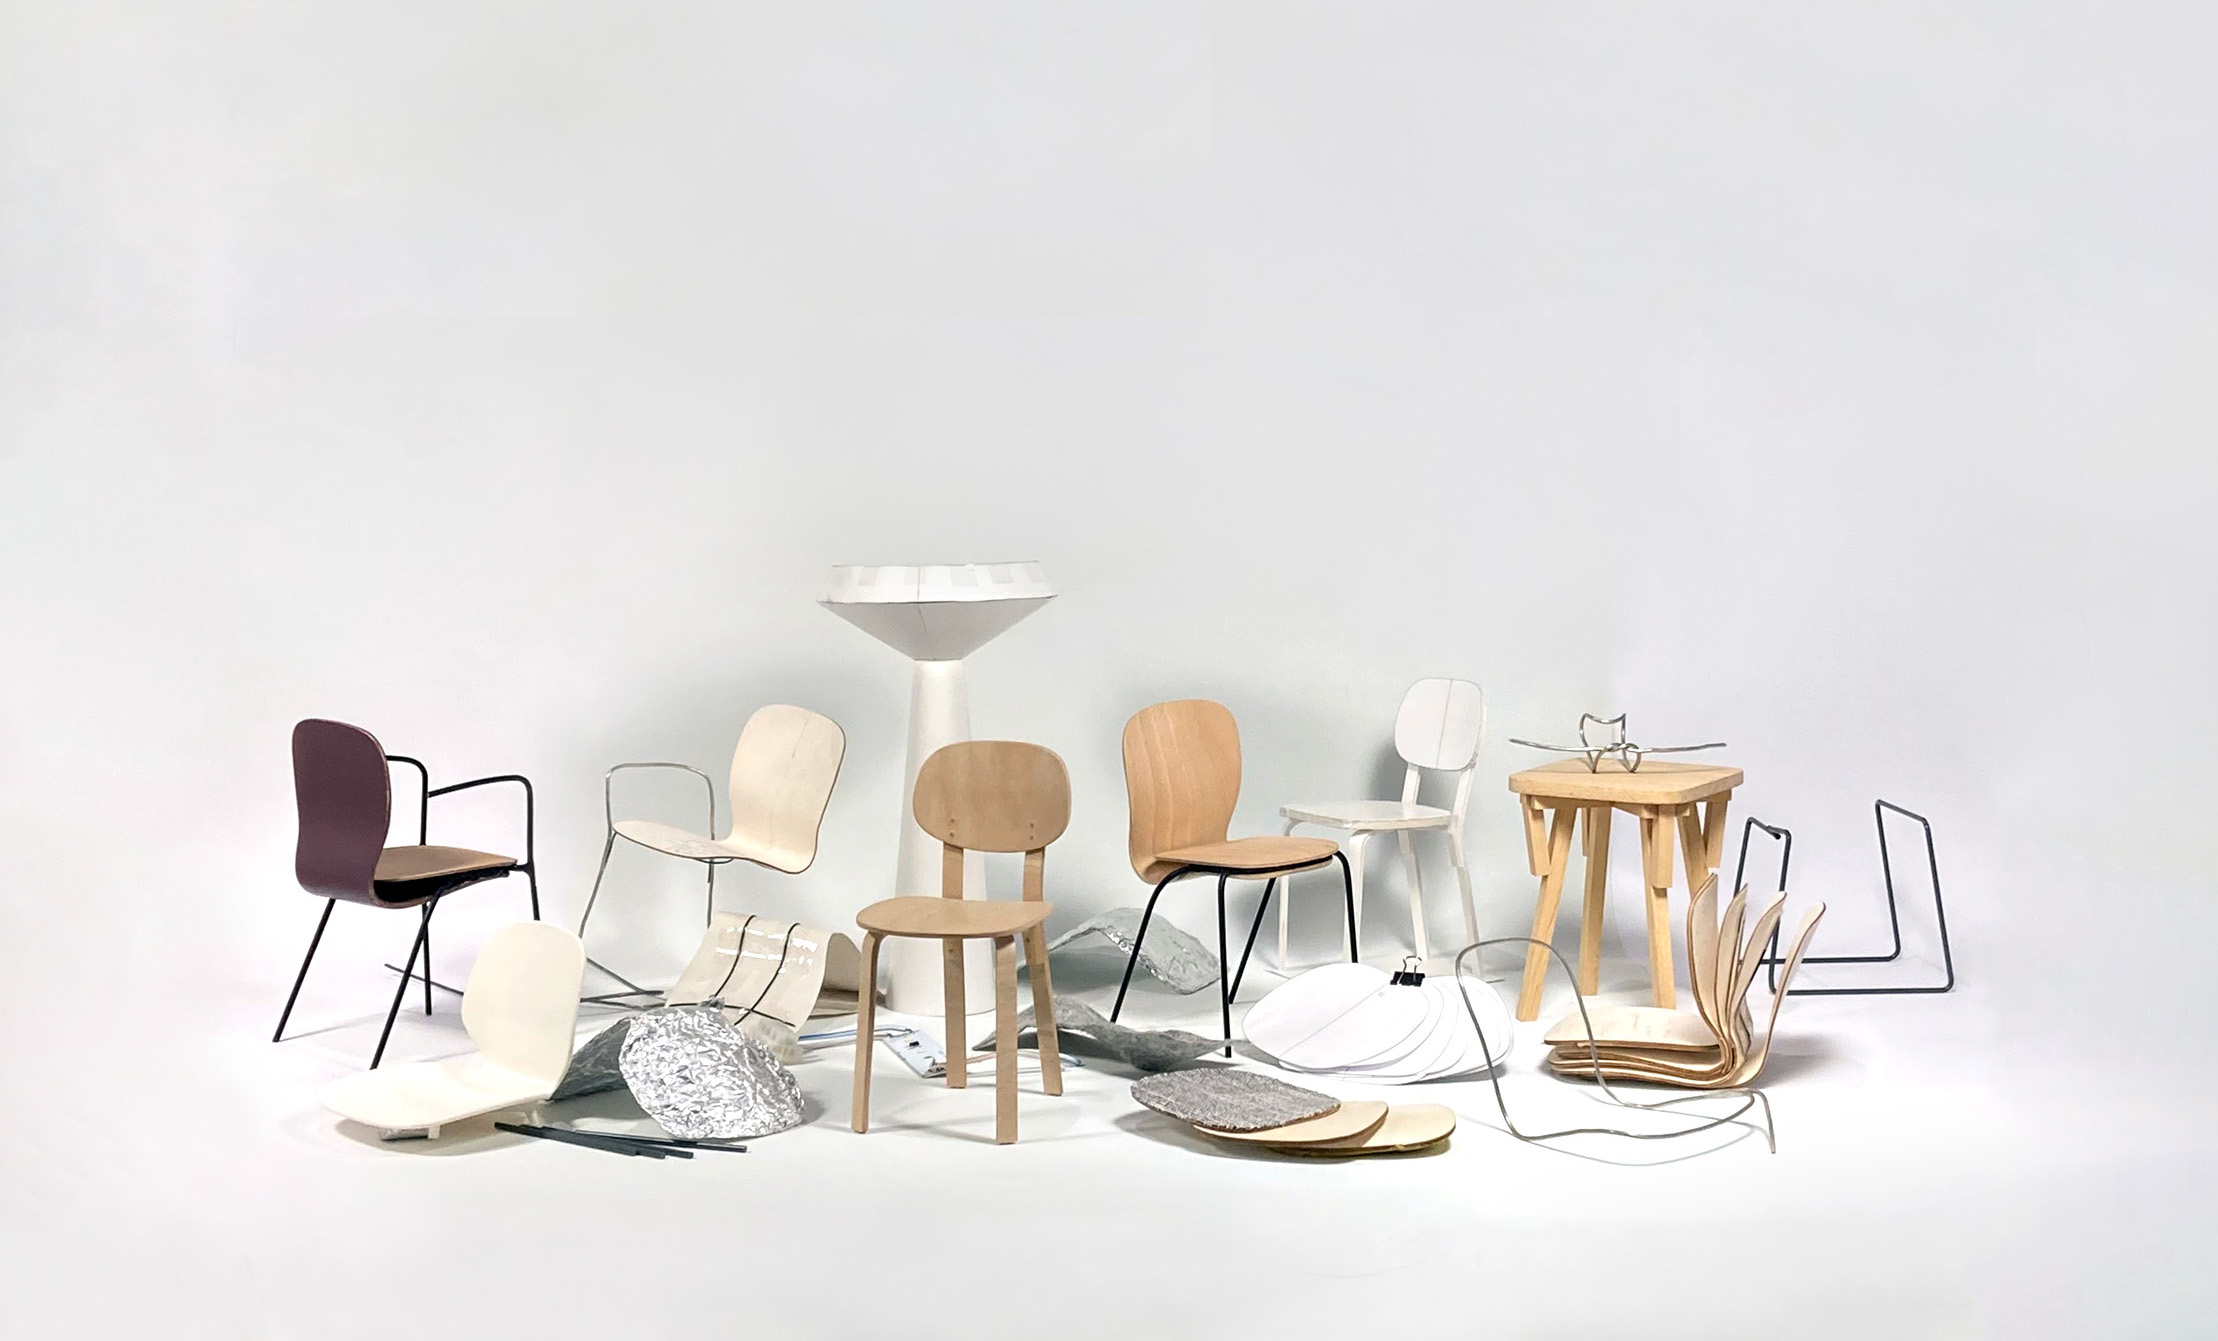
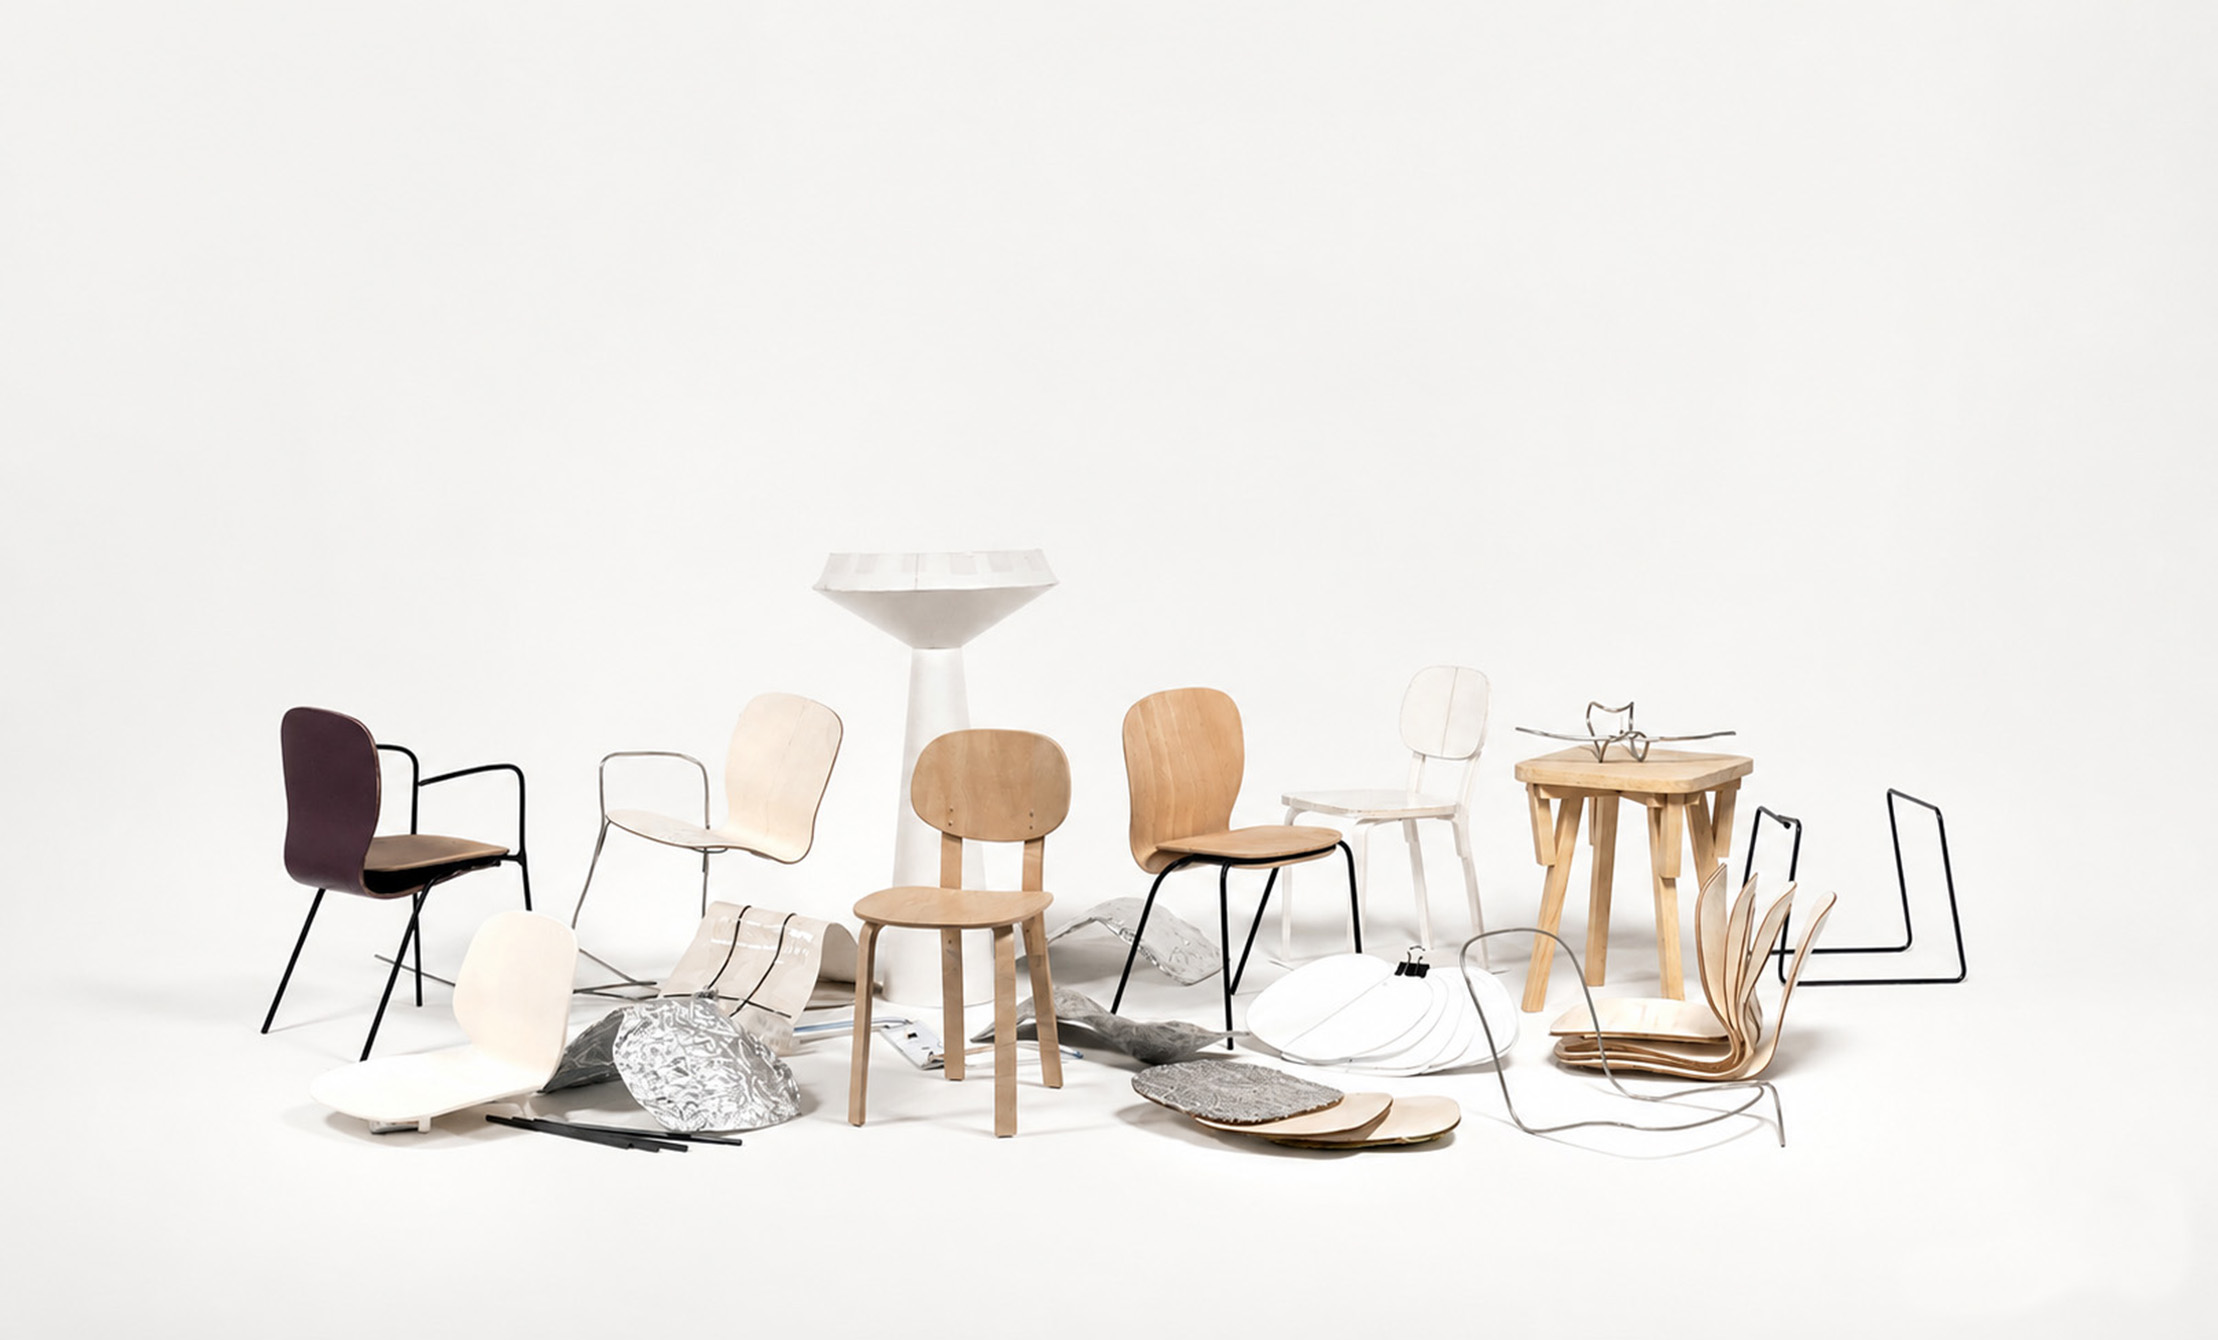
Gorg added to product page

Changed region(s): [[0.1244, 0.3978, 0.9022, 0.8873], [0.9955, 0.7343, 1.0, 0.7955]]

diff --git a/script.js b/script.js
@@ -440,8 +440,8 @@ document.addEventListener('DOMContentLoaded', function() {
         },
         {
             title: 'Gorg',
-            thumbnailImage: 'Images/Product/Naedd/MarcelPozo_ProductDesign_Naedd_0.jpg',
-            popupImage: 'Images/Product/Naedd/MarcelPozo_ProductDesign_Naedd_1.jpg',
+            thumbnailImage: 'Images/Product/Gorg/MarcelPozo_ProductDesign_Gorg_0.jpg',
+            popupImage: 'Images/Product/Gorg/MarcelPozo_ProductDesign_Gorg_0.jpg',
             description: 'Handcrafted ceramic plant pot',
             year: '2025',
             materials:`